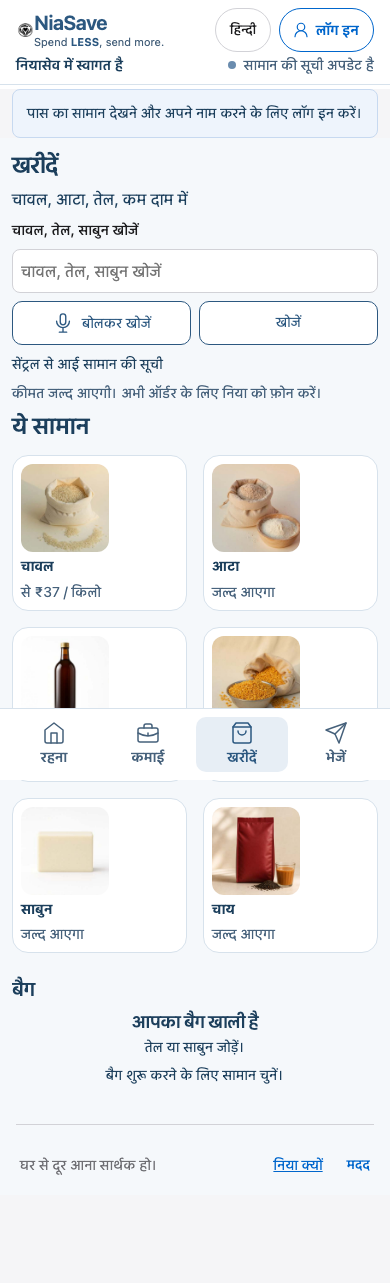
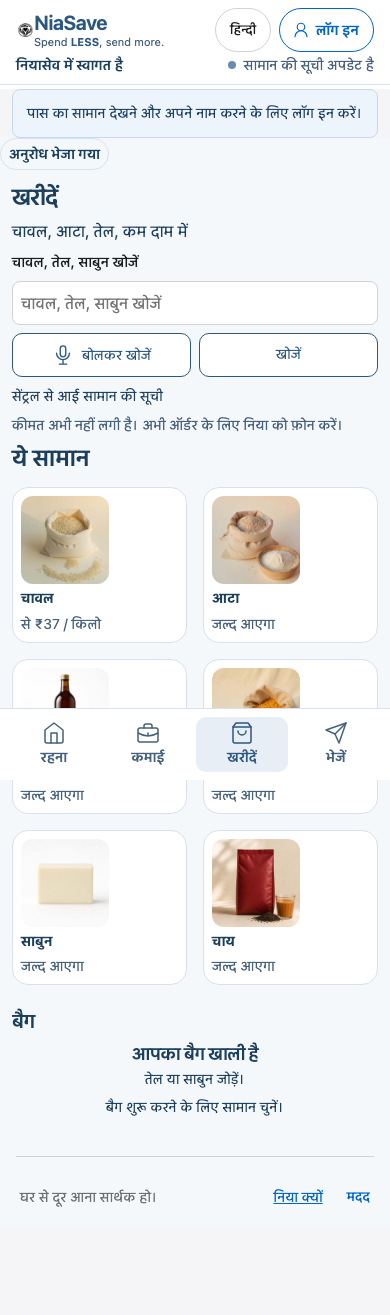
Show a queued Shop order again, and match the Shop evidence.
The Shop chip renders as main renders it, so a queued order stays visible online and offline. Dead category keys are gone, the empty-bag replacement is checked against the sentence commerce.js renders, and the eight Shop screenshots use the restored price line.

diff --git a/commerce-locales/ta.js b/commerce-locales/ta.js
@@ -596,10 +596,8 @@ export default {
   "Offline. Reconnect for current prices": "இணையம் இல்லை. தற்போதைய விலைக்கு மீண்டும் இணையுங்கள்",
   "View item": "பொருளைப் பார்க்கவும்",
   "Search results": "தேடல் முடிவுகள்",
-  "All categories": "எல்லா சாமானும்",
   "All goods": "எல்லா சாமானும்",
   "Coming soon": "விரைவில் வரும்",
-  "Categories": "இந்த சாமான்கள்",
   "These goods": "இந்த சாமான்கள்",
   "Other essentials": "பிற அத்தியாவசியப் பொருட்கள்",
   "Central has not assigned these products to the six Shop categories.": "சென்ட்ரல் இந்தப் பொருட்களை ஆறு கடை வகைகளில் சேர்க்கவில்லை.",
@@ -612,7 +610,6 @@ export default {
   "Final price and availability are checked by Central at review.": "இறுதி விலையும் கிடைப்பும் சென்ட்ரல் மதிப்பாய்வில் சரிபார்க்கப்படும்.",
   "Choose a product to start your bag.": "பையைத் தொடங்க ஒரு பொருளைத் தேர்ந்தெடுக்கவும்.",
   "Nothing to add yet. Call Nia to order.": "இப்போது சேர்க்க ஒன்றும் இல்லை. ஆர்டர் செய்ய நியாவை போன் செய்யுங்கள்.",
-  "You asked Nia for this order": "இந்த ஆர்டரை நீங்கள் நியாவிடம் கேட்டீர்கள்",
   "Voice search is unavailable on this device.": "இந்தச் சாதனத்தில் குரல் தேடல் இல்லை.",
   "Voice search could not hear you. Type your search instead.": "உங்கள் குரலைக் கேட்க முடியவில்லை. தட்டச்சு செய்து தேடவும்.",
   "Voice search could not start. Type your search instead.": "குரல் தேடலைத் தொடங்க முடியவில்லை. தட்டச்சு செய்து தேடவும்.",

diff --git a/commerce-locales/bn.js b/commerce-locales/bn.js
@@ -824,10 +824,8 @@ export default {
   "Offline. Reconnect for current prices": "অফলাইন। বর্তমান দাম দেখতে ইন্টারনেটে যুক্ত হন",
   "View item": "পণ্য দেখুন",
   "Search results": "খোঁজের ফল",
-  "All categories": "সব জিনিস",
   "All goods": "সব জিনিস",
   "Coming soon": "শীঘ্রই আসছে",
-  "Categories": "এই জিনিস",
   "These goods": "এই জিনিস",
   "Other essentials": "অন্যান্য প্রয়োজনীয় পণ্য",
   "Central has not assigned these products to the six Shop categories.": "সেন্ট্রাল এই পণ্যগুলিকে দোকানের ছয়টি বিভাগে রাখেনি।",
@@ -840,7 +838,6 @@ export default {
   "Final price and availability are checked by Central at review.": "চূড়ান্ত দাম ও প্রাপ্যতা পর্যালোচনার সময় সেন্ট্রাল যাচাই করবে।",
   "Choose a product to start your bag.": "ব্যাগ শুরু করতে একটি পণ্য বেছে নিন।",
   "Nothing to add yet. Call Nia to order.": "এখন যোগ করার কিছু নেই। অর্ডার করতে নিয়াকে ফোন করুন।",
-  "You asked Nia for this order": "আপনি এই অর্ডার নিয়ার কাছে চেয়েছেন",
   "Voice search is unavailable on this device.": "এই ডিভাইসে কণ্ঠে খোঁজ নেই।",
   "Voice search could not hear you. Type your search instead.": "আপনার কথা শোনা যায়নি। লিখে খুঁজুন।",
   "Voice search could not start. Type your search instead.": "কণ্ঠে খোঁজ শুরু করা যায়নি। লিখে খুঁজুন।",

diff --git a/commerce-locales/hi.js b/commerce-locales/hi.js
@@ -234,10 +234,8 @@ export default {
   "View item": "सामान देखें",
   "Search results": "खोज के परिणाम",
   "No matching products": "मिलता सामान नहीं मिला",
-  "All categories": "सारा सामान",
   "All goods": "सारा सामान",
   "Coming soon": "जल्द आएगा",
-  "Categories": "ये सामान",
   "These goods": "ये सामान",
   "Other essentials": "अन्य ज़रूरी सामान",
   "Central has not assigned these products to the six Shop categories.": "सेंट्रल ने इन उत्पादों को दुकान की छह श्रेणियों में नहीं रखा है।",
@@ -250,7 +248,6 @@ export default {
   "Final price and availability are checked by Central at review.": "अंतिम कीमत और उपलब्धता सेंट्रल समीक्षा के समय जाँचेगा।",
   "Choose a product to start your bag.": "बैग शुरू करने के लिए सामान चुनें।",
   "Nothing to add yet. Call Nia to order.": "अभी जोड़ने को कुछ नहीं। ऑर्डर के लिए निया को फ़ोन करें।",
-  "You asked Nia for this order": "आपने यह ऑर्डर निया से माँगा है",
   "Voice search is unavailable on this device.": "इस उपकरण पर बोलकर खोज उपलब्ध नहीं है।",
   "Voice search could not hear you. Type your search instead.": "आपकी आवाज़ नहीं सुनी जा सकी। लिखकर खोजें।",
   "Voice search could not start. Type your search instead.": "बोलकर खोज शुरू नहीं हुई। लिखकर खोजें।",

diff --git a/commerce-money-status.js b/commerce-money-status.js
@@ -11,17 +11,10 @@ export function pickupOperatorName(record){
   const name=typeof value==='string'?value:typeof value?.name==='string'?value.name:'';
   return name.trim()||null;
 }
-function shopOrder(source){
-  const record=source?.record;
-  if(record&&typeof record==='object')return true;
-  return Array.isArray(source?.lines)&&source.lines.length>0;
-}
 export function moneyStatusMarkup(source,{t,esc}){
   const state=moneyStatusState(source);
   if(!state)return '';
-  // The Shop chip is a sentence about an order. A bare request with no order stays hidden.
-  if(source.kind==='shop'&&(state==='requested'||state==='queued')&&!shopOrder(source))return '';
-  const label=source.kind==='shop'&&state==='requested'?t('You asked Nia for this order'):{requested:t('Requested'),reserved:t('Reserved'),confirmed:t('Confirmed'),queued:t('Queued on this phone')}[state];
+  const label={requested:t('Requested'),reserved:t('Reserved'),confirmed:t('Confirmed'),queued:t('Queued on this phone')}[state];
   const operator=source.kind==='shop'&&state==='reserved'?pickupOperatorName(source.record):null;
   const operatorLine=source.kind==='shop'&&state==='reserved'
     ?`<small class="money-honesty-operator">${operator?`${esc(t('Held for pickup by'))} <strong>${esc(operator)}</strong>`:esc(t(source.record?.source==='niasave'?'Pickup operator not yet assigned':'Pickup operator not yet provided by Central'))}</small>`

diff --git a/commerce-locales/kn.js b/commerce-locales/kn.js
@@ -448,7 +448,6 @@ export default {
   "These goods": "ಈ ಸಾಮಾನು",
   "All goods": "ಎಲ್ಲಾ ಸಾಮಾನು",
   "Nothing to add yet. Call Nia to order.": "ಈಗ ಸೇರಿಸಲು ಏನೂ ಇಲ್ಲ. ಆರ್ಡರ್ ಮಾಡಲು ನಿಯಾಗೆ ಫೋನ್ ಮಾಡಿ.",
-  "You asked Nia for this order": "ಈ ಆರ್ಡರ್ ಅನ್ನು ನೀವು ನಿಯಾಳಲ್ಲಿ ಕೇಳಿದ್ದೀರಿ",
   "Where do you stay? We will show work near you.": "ನೀವು ಎಲ್ಲಿ ಇರುತ್ತೀರಿ? ಹತ್ತಿರದ ಕೆಲಸ ತೋರಿಸುತ್ತೇವೆ.",
   "Finding jobs near you": "ನಿಮ್ಮ ಹತ್ತಿರದ ಕೆಲಸ ಹುಡುಕುತ್ತಿದ್ದೇವೆ",
   "Booking starts soon. Call Nia for help.": "ಬುಕಿಂಗ್ ಬೇಗ ಶುರುವಾಗುತ್ತದೆ. ಸಹಾಯಕ್ಕೆ ನಿಯಾಗೆ ಫೋನ್ ಮಾಡಿ.",

diff --git a/commerce-locales/mr.js b/commerce-locales/mr.js
@@ -426,7 +426,6 @@ export default {
   "These goods": "हे सामान",
   "All goods": "सगळे सामान",
   "Nothing to add yet. Call Nia to order.": "आत्ता घालायला काही नाही. ऑर्डरसाठी नियाला फोन करा.",
-  "You asked Nia for this order": "तुम्ही हा ऑर्डर नियाकडे मागितला आहे",
   "Where do you stay? We will show work near you.": "तुम्ही कुठे राहता? आम्ही जवळचे काम दाखवू.",
   "Finding jobs near you": "तुमच्या जवळची कामे शोधत आहोत",
   "Add oil or soap from Shop. Looking is free.": "तेल किंवा साबण घाला.",

diff --git a/tests/browser/data-lock.spec.js b/tests/browser/data-lock.spec.js
@@ -160,8 +160,7 @@ test('queued taps are still read and shown', async ({page}) => {
   await expect(page.locator('#content')).toContainText('Example rice pack');
   await expect(page.locator('#content')).toContainText('Bag');
   await expect(page.locator('#content')).toContainText('2');
-  await expect(page.locator('#content .money-honesty-chip')).toHaveCount(0);
-  await expect(page.locator('#sync-state')).toHaveText('Request needs retry');
+  await expect(page.locator('#content')).toContainText('Requested');
   await page.locator('#less-nav button[data-action="live"]').click();
   await expect(page.locator('#content')).toContainText('A Nest request is awaiting confirmation');
   await page.locator('#less-nav button[data-action="earn"]').click();

diff --git a/tests/browser/shop-page.spec.js b/tests/browser/shop-page.spec.js
@@ -24,7 +24,6 @@ test('empty Shop at 360px stays under 1500px with photos and no placeholder box'
   await expect(page.locator('.shop-category')).toHaveCount(6);
   await expect(page.locator('.shop-category img')).toHaveCount(6);
   await expect(page.locator('.shop-v2 .shop-photo-missing')).toHaveCount(0);
-  await expect(page.locator('#content .money-honesty-chip')).toHaveCount(0);
   await expect(page.locator('.shop-v2')).toContainText('Search for rice, oil, soap');
   await expect(page.locator('.shop-v2')).toContainText('These goods');
   await expect(page.locator('.shop-v2')).toContainText('Prices are not up yet. To order now, call Nia.');
